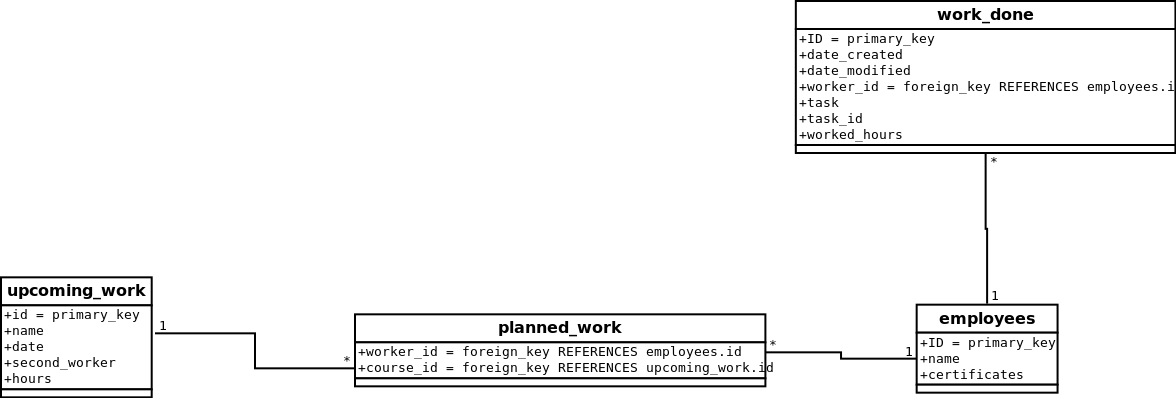
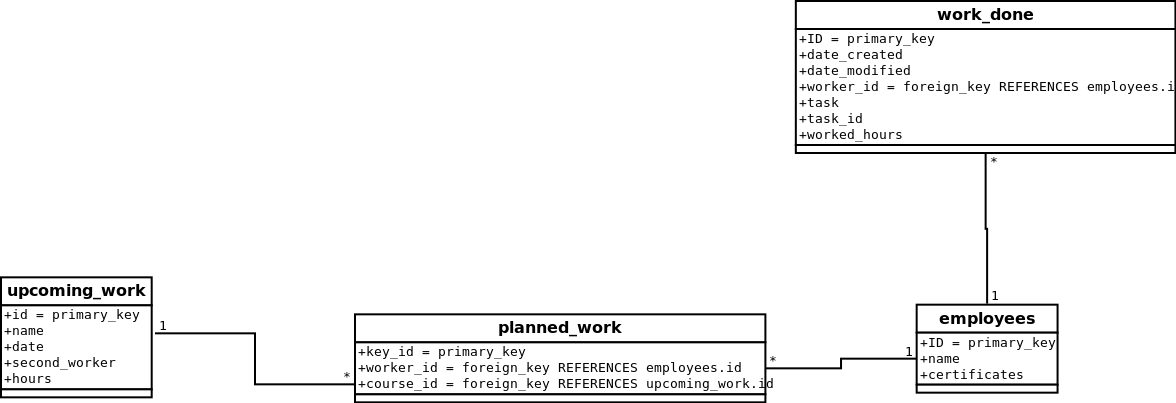
models.py viilauksia

diff --git a/application/worklog/models.py b/application/worklog/models.py
@@ -26,7 +26,6 @@ class UpcomingWork(db.Model):
     date = db.Column(db.Date, nullable=False)
     second_worker = db.Column(db.Integer, nullable=True)
     hours = db.Column(db.Integer, nullable=False)
-
     def __init__(self, name, date, second_worker, hours):
         self.name = name
         self.date = date
@@ -35,8 +34,9 @@ class UpcomingWork(db.Model):
 
 #Suunnitellut työtehtävät liitostaulu - HAHMOTELMA
 class PlannedWork(db.Model):
-    worker_id = db.Column(db.Integer, ForeignKey("employees.id"), nullable=False)
-    course_id = db.Column(db.Integer, ForeignKey("upcoming_work.id"), nullable=False)
+    key_id = db.Column(db.Integer, primary_key=True)
+    worker_id = db.Column(db.Integer, db.ForeignKey("employees.id"), nullable=False)
+    course_id = db.Column(db.Integer, db.ForeignKey("upcoming_work.id"), nullable=False)
 
 
 
